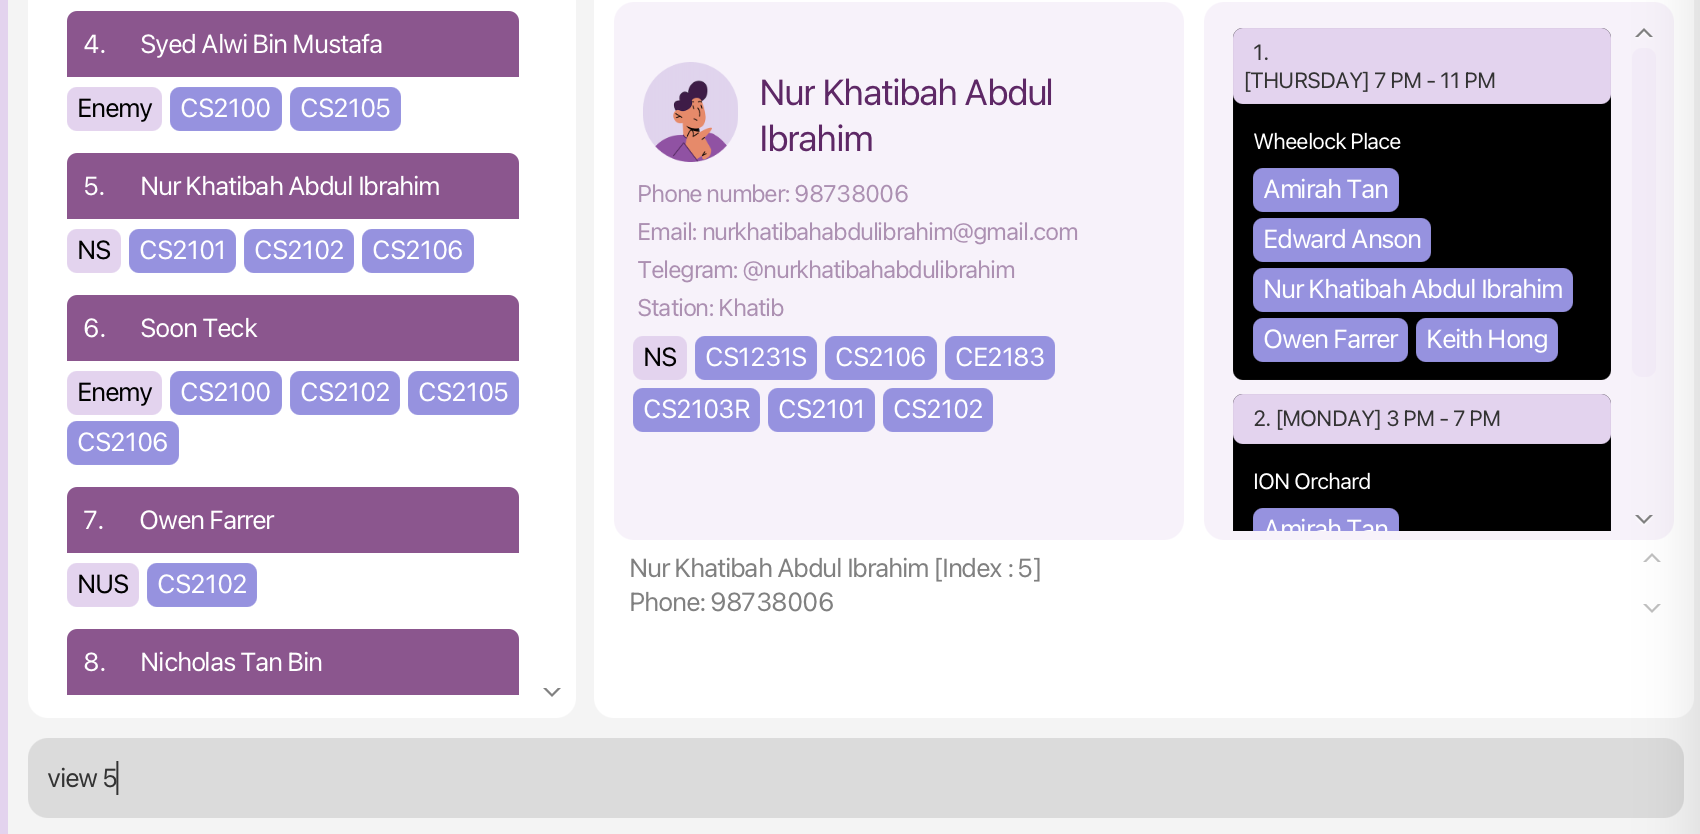
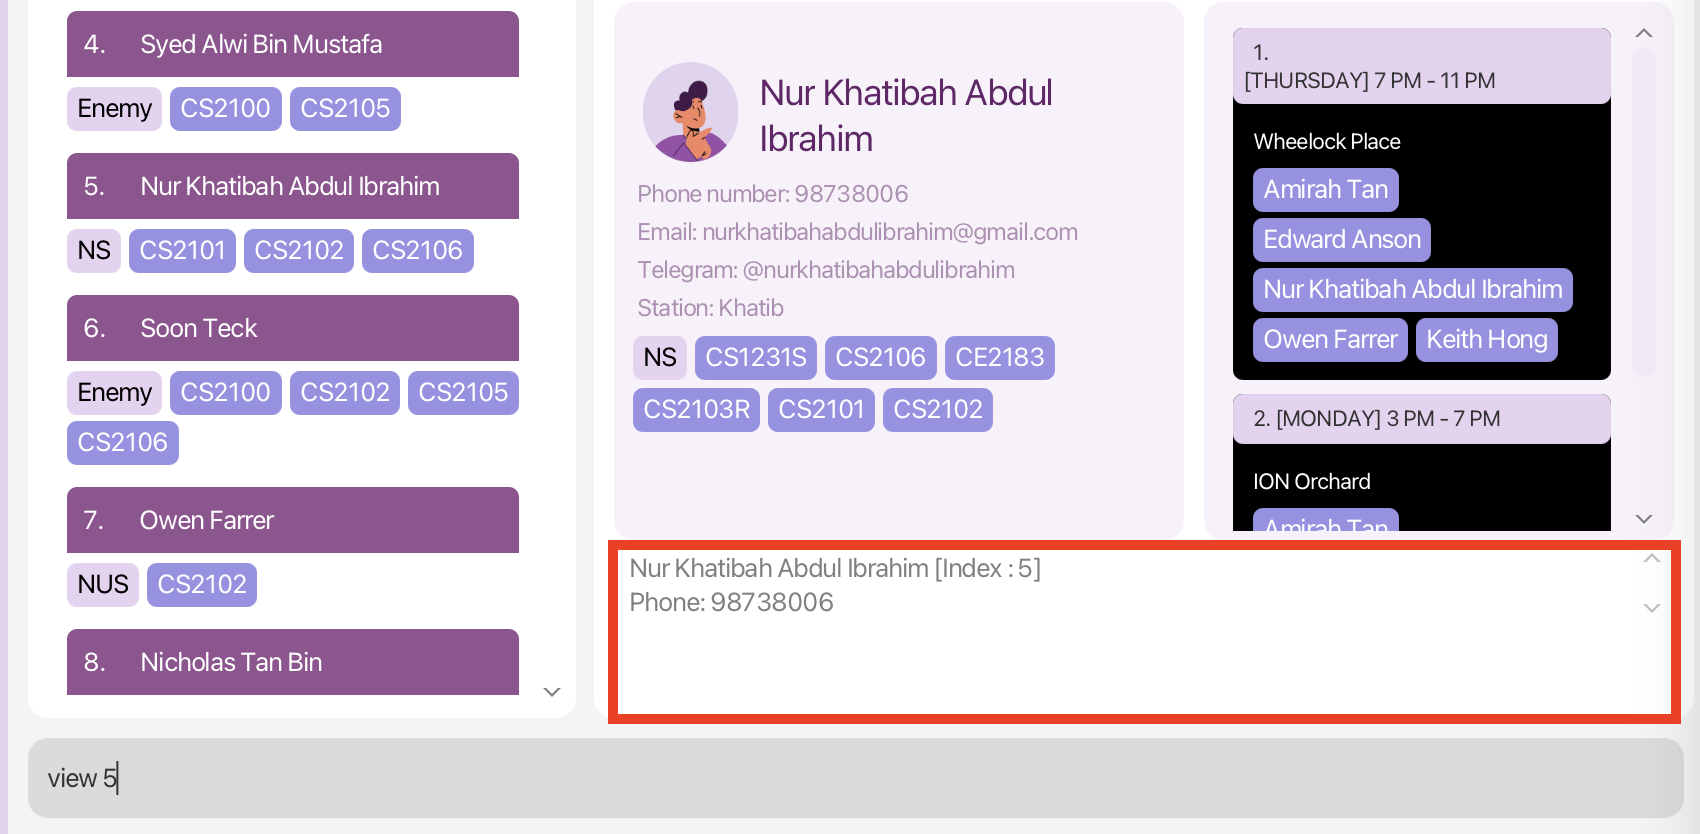
Rewrite Command Response and Input Box for UG

Changed region(s): [[0.3429, 0.6235, 0.9976, 0.8729]]

diff --git a/docs/UserGuide.md b/docs/UserGuide.md
@@ -197,7 +197,7 @@ We also used light purple and white as our main colour scheme as they are cool c
 1. [Person List](#person-list)
 2. [Meet Up Recommendation Panel](#meet-up-recommendation-panel)
 3. [Profile Panel](#profile-panel)
-4. Scheduled Meet Up Panel
+4. [Scheduled Meet Up Panel](#scheduled-meet-up-panel)
 5. Command Response Box
 6. Command Input Box
 7. Help Button
@@ -285,22 +285,7 @@ The panel contains all the information of every scheduled meet up with your cont
 <center>Diagram 10: Components of the Scheduled Meet Up Panel</center>
 </div>
 
-### Command Box
-
-The Command Box is where you can input the [Commands](#commands) when using `EduMate`.
-
-The Command Box is located at the bottom of the application. You may refer to the [User Interface](#user-interface) section to locate it.
-
-<div markdown="span" class="alert alert-success">
-
-:bulb: **Pro Tip:** <br>
-Did you know that the UP and DOWN arrow keys can be used to quickly access previously typed commands in the Command Box? This feature has been specially designed for you to save time and increase your productivity.<br>
-<br>
-In the current session, all of your previously typed commands can be accessed using the UP and DOWN arrow keys. Additionally, we automatically save up to 100 of your most recent commands to a file for your convenience in the next session. This way, you can easily refer back to your previous commands without having to retype them, saving you time and increasing your efficiency.
-
-</div>
-
-### Command Response
+### Command Response Box
 
 The Command Response box is where you will receive feedback for any command you execute. It could give you some information if the command execution was successful or if you had executed a command of an invalid format.
 
@@ -308,8 +293,30 @@ The Command Response box is located directly below the [Profile Panel](#profile-
 
 <img src="images/UG_ui_pictures/command_feedback.png" style="width:80%;margin:0 10%">
 
-<center>Diagram 5: Successful command execution feedback shown</center>
+<center>Diagram 11: Successful command execution feedback shown in red</center>
 
+### Command Box
+
+The Command Box is where you can input the [Commands](#commands) when using `EduMate`.
+
+The Command Box is located at the bottom of the application. You may refer to the [User Interface](#user-interface) section to locate it.
+
+<img src="images/UG_ui_pictures/command_input_box.png" style="width:80%;margin:0 10%">
+
+<center>Diagram 11: Command input box in <code>EduMate</code> boxed in red</center>
+
+
+<div markdown="span" class="alert alert-success">
+
+:bulb: **Pro Tip:** <br>
+Did you know that the **UP** and **DOWN** arrow keys can be used to quickly access previously typed commands in the Command Box?
+You can now **save time and increase your productivity!**<br>
+
+
+<code>EduMate</code> saves up to 100 of your most recent commands to a file for your convenience when you relaunch the application as well!
+That way, you can reuse commands from your previous session with ease!
+
+</div>
 [Return to the top](#table-of-contents)
 
 --------------------------------------------------------------------------------------------------------------------
